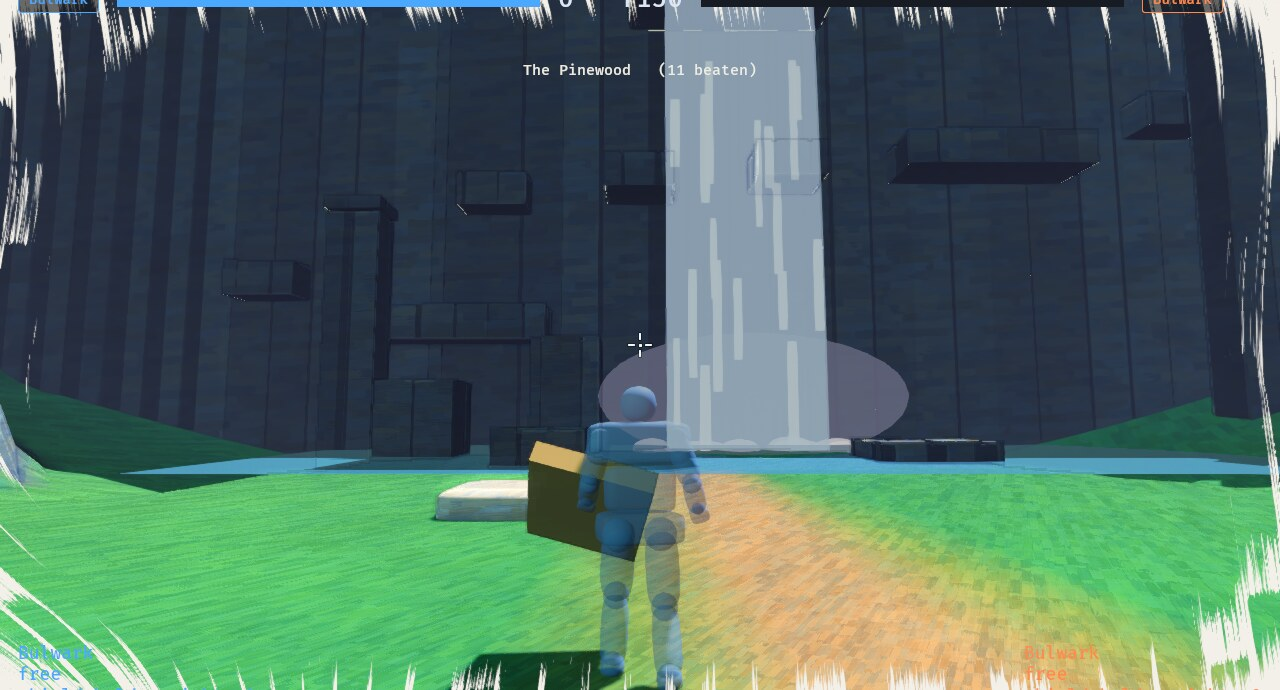
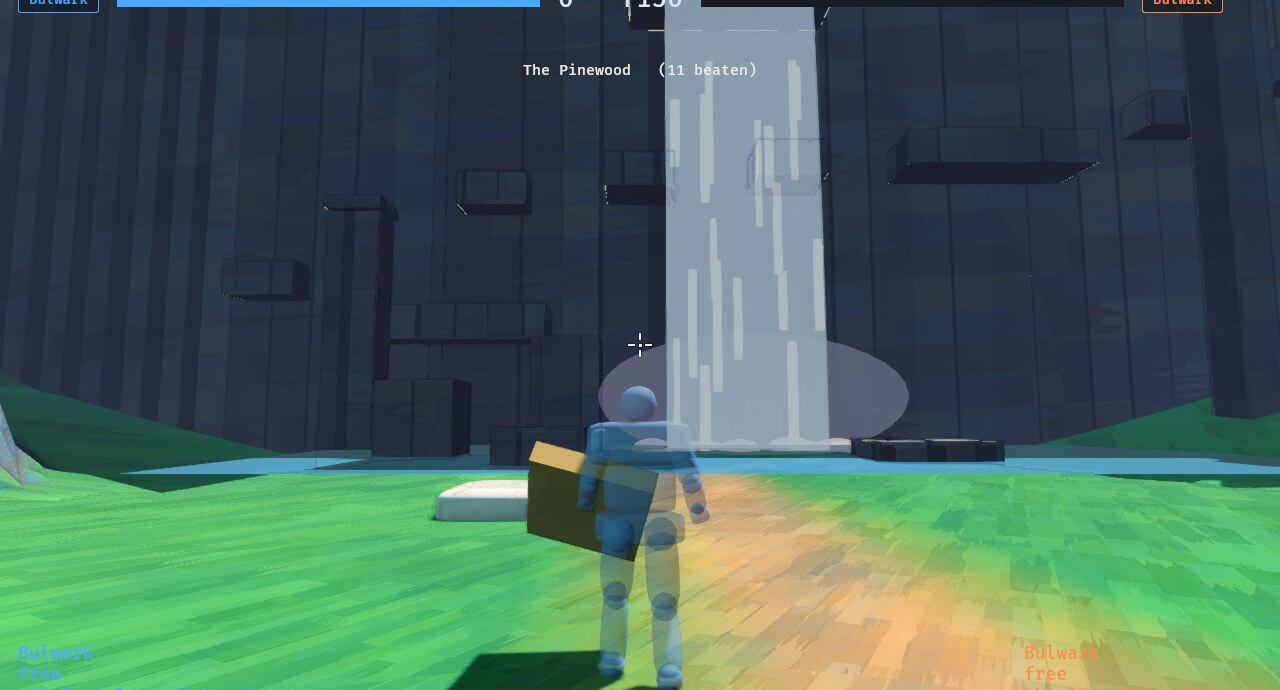
Brushed: much bigger, quieter strokes; no paper frame
On the owner's word: not paper texture, and big areas were too busy.
Strokes are now a fifth of their distance long with the fine marks
over them gone, so a large uninterrupted area reads as a few broad
strokes and a small thing sits inside one. The sky's strokes are
nearly three times as wide and long; the dry-brush frame is off.

Claude-Session: https://claude.ai/code/session_017GYBfN3ntK6jxjaipQK7U5

diff --git a/crates/look/src/wash.rs b/crates/look/src/wash.rs
@@ -256,30 +256,30 @@ pub const BRUSHED: Wash = Wash {
     bands: 0.35,
     tones: 3.0,
     soft: 0.18,
-    stroke: 0.14,
+    stroke: 0.06,
     stroke_len: 1.4,
     shade: [0.86, 0.88, 1.08],
     light: [1.06, 1.02, 0.94],
-    mottle: 0.12,
+    mottle: 0.04,
     dilute: 0.08,
     top: 0.22,
-    grain: 0.08,
-    broad: 0.8,
-    broad_size: 0.06,
+    grain: 0.0,
+    broad: 0.75,
+    broad_size: 0.22,
     cut: true,
     brush: 7.0,
     drawn: 1.8,
     crisp: 12.0,
     painted_from: 70.0,
     strokes: 1.0,
-    frame: 0.4,
+    frame: 0.0,
     haze: 0.004,
     haze_falloff: 0.03,
     haze_tint: [0.80, 0.84, 0.95],
     haze_tint_amount: 0.25,
     near_dark: 0.1,
     ao: 0.55,
-    edges: 0.45,
+    edges: 0.25,
     glow: 0.4,
     shafts: 0.3,
     grade_shade: [0.90, 0.90, 1.10],

diff --git a/docs/design/painting.md b/docs/design/painting.md
@@ -89,7 +89,7 @@ and a slow frame loads fewer tiles -- a 45 s wait leaves mountains out).
 | `painted` | reference one | soft painted tones, violet shade, warm light, brush dabs, caught edges, coloured height haze, glow, cut stones, almost no line |
 | `depths` | reference two | the same pushed to one hue (blue) and to layers: thick air, dark foreground, strong shafts |
 | `wash` | the first brief | transparent watercolour on paper: pooled edges, granulation, dry brush, wavering sepia line |
-| `brushed` | GW2's concept art | crisp near, broad flat-brush strokes far and on every surface, sky strokes, a dry-brush frame |
+| `brushed` | GW2's concept art | crisp near, broad flat-brush strokes far and on every surface, sky strokes. Retuned on the owner's word (2026-10-15: *not paper texture; big areas are too busy, make the strokes much bigger for large uninterrupted areas*): strokes a fifth of their distance long, no fine marks over them, no paper frame -- so a big area is a few strokes and a small thing sits inside one |
 
 ![Hearth in plain, painted, depths and wash](gallery/painting-hearth.jpg)
 ![The falls in the same four](gallery/painting-falls.jpg)
